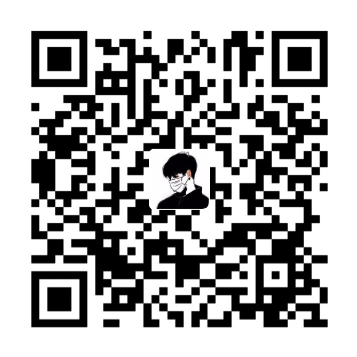
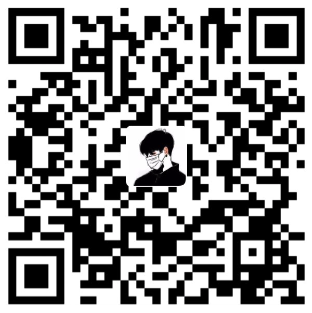
update

diff --git a/README.md b/README.md
@@ -136,12 +136,12 @@ func main() {
 
 * [GoDoc](https://godoc.org/github.com/iGoogle-ink/gopay)
 * 所有方法，如有问题，请仔细查看 examples
-* 有问题请加QQ群。在此，非常感谢那些加群后，提出意见和反馈问题的同志们！
+* 有问题请加QQ群（加群验证答案：gopay）。在此，非常感谢那些加群后，提出意见和反馈问题的同志们！
 
 QQ群：
 <img width="226" height="300" src="https://raw.githubusercontent.com/iGoogle-ink/gopay/master/qq_gopay.png"/>
-JD优惠券微信群：
-<img width="226" height="300" src="https://raw.githubusercontent.com/iGoogle-ink/gopay/master/jd_coupon.png"/>
+微信群（满100人无法扫码添加）：
+<img width="226" height="300" src="https://raw.githubusercontent.com/iGoogle-ink/gopay/master/wechat_gopay.png"/>
 
 ---
 
@@ -510,7 +510,7 @@ fmt.Println(*phone)
 ## 开源不易，讲究的朋友可以给个赞赏
 微信：
 <img width="200" height="200" src="https://raw.githubusercontent.com/iGoogle-ink/gopay/master/zanshang_wx.png"/>
-支付查：
+支付宝：
 <img width="200" height="200" src="https://raw.githubusercontent.com/iGoogle-ink/gopay/master/zanshang_zfb.png"/>
 
 ## License
